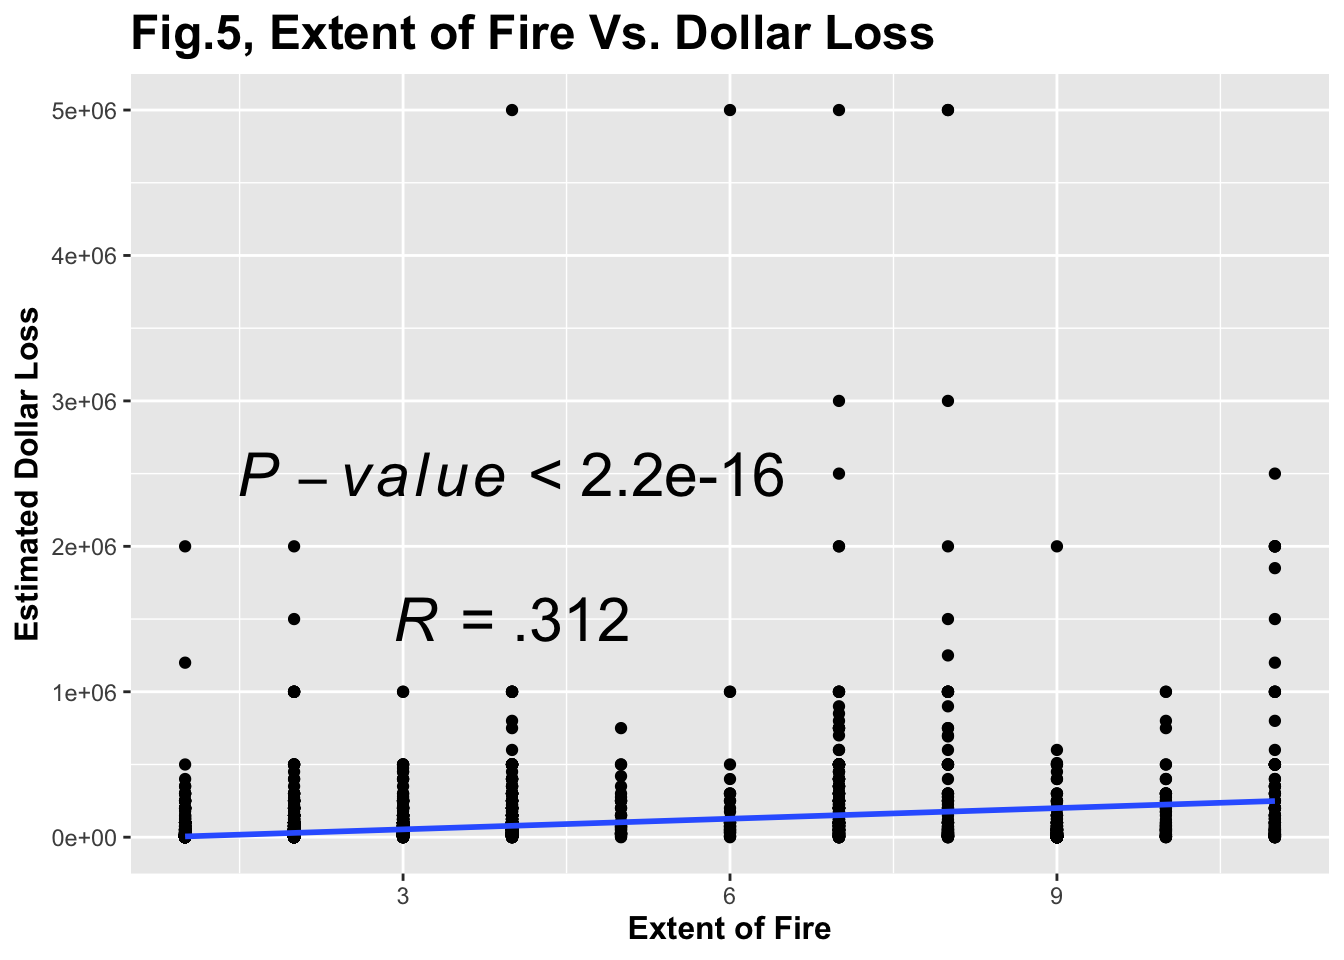
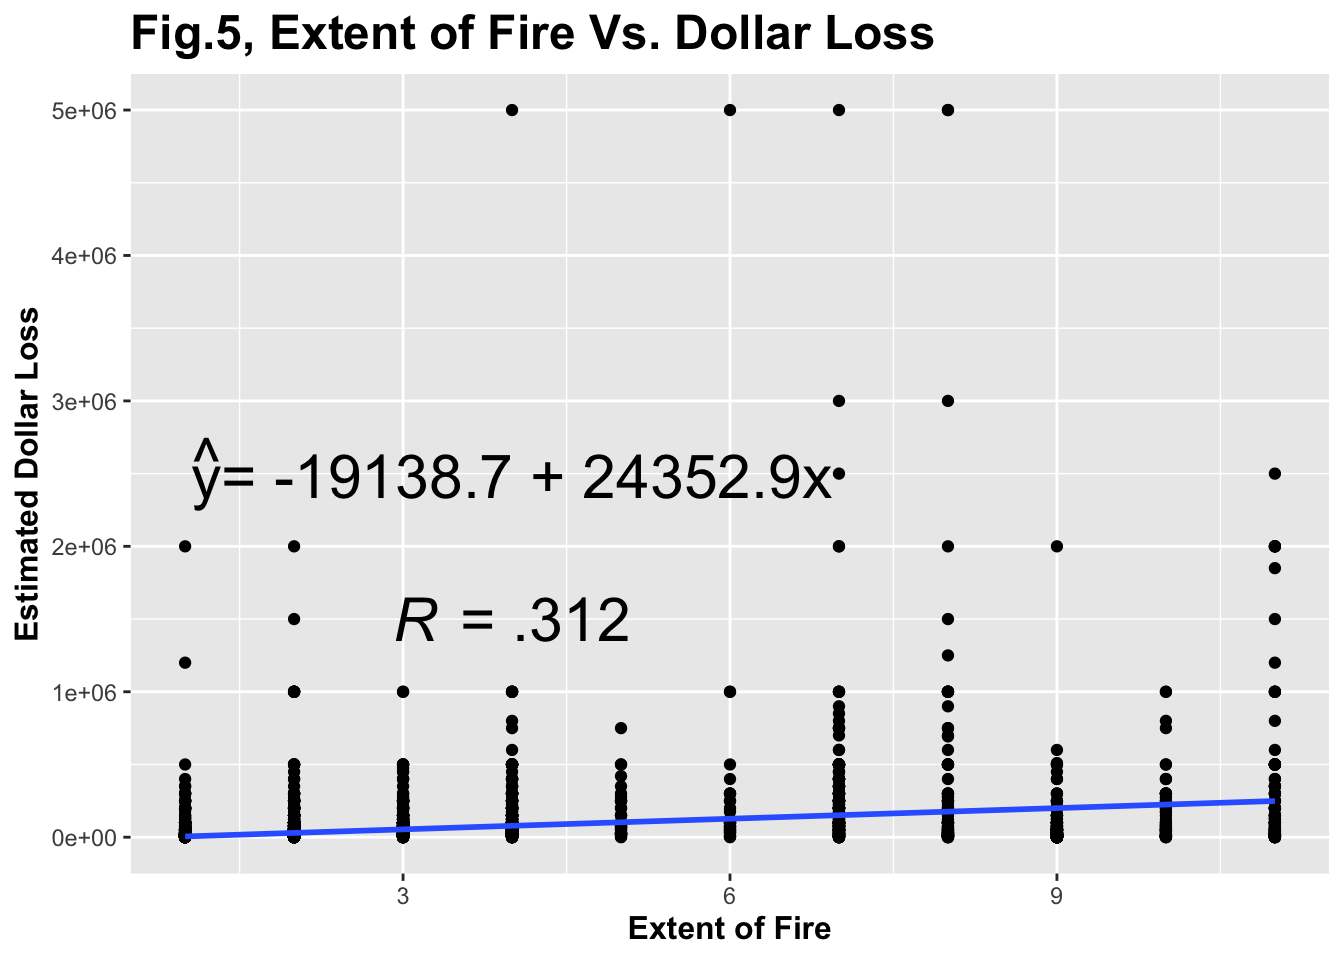
A1C14

Changed region(s): [[0.125, 0.4688, 0.625, 0.5312]]

diff --git a/public/2020/09/17/positive-correlation-between-extent-of-fire-incident-estimated-loss-and-number-of-responding-firefighters/index.html b/public/2020/09/17/positive-correlation-between-extent-of-fire-incident-estimated-loss-and-number-of-responding-firefighters/index.html
@@ -22,11 +22,6 @@
 
 
 
-
-<link href='//cdnjs.cloudflare.com/ajax/libs/highlight.js/9.12.0/styles/github.min.css' rel='stylesheet' type='text/css' />
-
-
-
 <link rel="stylesheet" href="/css/fonts.css" media="all">
 <link rel="stylesheet" href="/css/main.css" media="all">
 
@@ -103,43 +98,13 @@
 <div id="are-they-correlated" class="section level1">
 <h1>Are they Correlated?</h1>
 <p>To assess correlation, the use of simple linear regression model and hypothesis testing on correlation coefficients was done for each set of graphs. The regression model shows a direct graphical implication of the relationship and provides the correlation coefficient. The hypothesis testing is just an extra safe to show that correlation is not zero, so we used a null hypothesis of correlation coefficient equal to zero and the alternative being non-zero.</p>
-<pre><code>## 
-##  Pearson&#39;s product-moment correlation
-## 
-## data:  Loss_NumUnit_low$Extent_Of_Fire and Loss_NumUnit_low$Number_of_responding_personnel
-## t = 50.372, df = 11115, p-value &lt; 2.2e-16
-## alternative hypothesis: true correlation is not equal to 0
-## 95 percent confidence interval:
-##  0.4158489 0.4461197
-## sample estimates:
-##       cor 
-## 0.4311056</code></pre>
-<pre><code>## 
-##  Pearson&#39;s product-moment correlation
-## 
-## data:  Loss_NumUnit_low$Extent_Of_Fire and Loss_NumUnit_low$Estimated_Dollar_Loss
-## t = 34.627, df = 11115, p-value &lt; 2.2e-16
-## alternative hypothesis: true correlation is not equal to 0
-## 95 percent confidence interval:
-##  0.2951687 0.3287283
-## sample estimates:
-##       cor 
-## 0.3120458</code></pre>
 <p><img src="/post/2020-09-20-Ps1-Yi_Su_files/figure-html/unnamed-chunk-4-1.png" width="50%" /><img src="/post/2020-09-20-Ps1-Yi_Su_files/figure-html/unnamed-chunk-4-2.png" width="50%" /></p>
-<p>First, &quot;Extent_of_fire&quot; appears to have a positive relationship with both &quot;Number_of_responding_personnel&quot; and &quot;Estimated_Dollar_Loss&quot;. The blue line in the graph is a simple linear regression line showing a positive correlation between the two variables for all three graphs, and the p-values both being so small is just an indication that we can be sure there exist some correlation between the variables.The R value (correlation coefficient) indicates the strength of relationship. Notice that the correlation coefficitn of 0.431 and 0.312 are considered as fairly weak, this is due to the fact that, there are always more elements other than extent of the incident which influences number of responding firefighters and estimated loss. For example, the number of firefighters in a certain responding area is limited in the given time, and maybe the incident happened in an area or building with less valuable item in dollars.</p>
-<pre><code>## 
-##  Pearson&#39;s product-moment correlation
-## 
-## data:  Loss_NumUnit_low$Estimated_Dollar_Loss and Loss_NumUnit_low$Number_of_responding_personnel
-## t = 69.309, df = 11115, p-value &lt; 2.2e-16
-## alternative hypothesis: true correlation is not equal to 0
-## 95 percent confidence interval:
-##  0.5362211 0.5621831
-## sample estimates:
-##       cor 
-## 0.5493347</code></pre>
+<p>First, &quot;Extent_of_fire&quot; appears to have a positive relationship with both &quot;Number_of_responding_personnel&quot; and &quot;Estimated_Dollar_Loss&quot;. The blue line in the graph is a simple linear regression line showing a positive correlation between the two variables for all three graphs. Specifically, the SLR model for impact of extent of fire on number of responding personnel is: <span class="math display">\[\hat{y}= 20.1 + 4.45x \]</span>, meaning the expected estimiate loss is 20.1 when extent of fire is 0, and expected number of responding personnel increases for 4.45 when extent of fire raises by level of 1. The SLR model for impact of extent of fire on estimated loss is: <span class="math display">\[\hat{y}= -19138.7 + 24352.9x \]</span>, and the interpretation of parameters are similar to the last model. Notably, the negative intercept is just an expected loss when extent is 0 and does not mean there's a &quot;negative loss&quot; when no fire around.</p>
+<p>The R value (correlation coefficient) indicates the strength of relationship. Notice that the correlation coefficient of 0.431 and 0.312 are considered as fairly weak, this is due to the existence of high residual value on the top half of both graphs. Notice the source of this is the large difference in scale of the explanatory and response variables. Extent of fire only takes on 1 to 10, but number of responding personnel reaches almost 500 at maximum, and estimated loss reaches 5 million at maximum. This is also why the correlation coefficient in Fig. 2 is lower than Fig. 1.</p>
+<p>On the other hand, there are always more elements other than extent of the incident which influences number of responding firefighters and estimated loss. For example, the number of firefighters in a certain responding area is limited in the given time, and maybe the incident happened in an area or building with less valuable item in dollars.</p>
 <p><img src="/post/2020-09-20-Ps1-Yi_Su_files/figure-html/unnamed-chunk-5-1.png" width="80%" /></p>
-<p>Next, Looking at the impact of &quot;Number_of_Responding_Personnel&quot; on &quot;Estimated_Dollar_Loss&quot;. The figure above shows that most incidents are clustered at the left-bottom corner, which follows our observation on the individual distribution of there two. Again, the small p-value shows the existence of some kind of correlation. A R value of 0. 549 appears that the correlation between number of firefighters involved and estimated dollar loss is stronger than the previous two. However, this does not mean there exist a causality of &quot;more firefighters result in more loss&quot; or the opposite, the more important rule is the extent of the incident. &quot;Extent_of_Fire&quot; acts like a gear between them, linking higher estimated loss with more firefighter involved in average.</p>
+<p>Next, Looking at Fig. 6 for the impact of &quot;Number_of_Responding_Personnel&quot; on &quot;Estimated_Dollar_Loss&quot;. The figure above shows that most incidents are clustered at the left-bottom corner, which follows our observation on the individual distribution of there two. The SLR model fitted in Fig.6 is: <span class="math display">\[\hat{y}= 27.43 + (7.26*10^{-5})x \]</span>. Again, the intercept of 27.43 is the expected number of responding personnel when there's no estimated loss, and expected number of responding personnel increases for 7.26e-05 whenever estimated loss increase for 1. The slope of 7.26e-05 is looking small on its own due to the difference in scale of the variables, estimated loss use millions on the axis while number of personnel use hundreds.</p>
+<p>A R value of 0. 549 appears that the correlation between number of firefighters involved and estimated dollar loss is stronger than the previous two. However, this does not mean there exist a causality of &quot;more firefighters result in more loss&quot; or the opposite, the more important rule is the extent of the incident. &quot;Extent_of_Fire&quot; acts like a gear between them, linking higher estimated loss with more firefighter involved on average.</p>
 </div>
 <div id="constraints-of-the-data" class="section level1">
 <h1>Constraints of the data</h1>
@@ -184,18 +149,6 @@
 
     </div>
     
-
-
-
-<script src="//cdnjs.cloudflare.com/ajax/libs/highlight.js/9.12.0/highlight.min.js"></script>
-
-
-
-<script src="//cdnjs.cloudflare.com/ajax/libs/highlight.js/9.12.0/languages/r.min.js"></script>
-<script src="//cdnjs.cloudflare.com/ajax/libs/highlight.js/9.12.0/languages/yaml.min.js"></script>
-<script>hljs.configure({languages: []}); hljs.initHighlightingOnLoad();</script>
-
-
 
     
 <script src="/js/math-code.js"></script>

diff --git a/content/post/2020-09-20-Ps1-Yi_Su.html b/content/post/2020-09-20-Ps1-Yi_Su.html
@@ -38,43 +38,13 @@ output:
 <div id="are-they-correlated" class="section level1">
 <h1>Are they Correlated?</h1>
 <p>To assess correlation, the use of simple linear regression model and hypothesis testing on correlation coefficients was done for each set of graphs. The regression model shows a direct graphical implication of the relationship and provides the correlation coefficient. The hypothesis testing is just an extra safe to show that correlation is not zero, so we used a null hypothesis of correlation coefficient equal to zero and the alternative being non-zero.</p>
-<pre><code>## 
-##  Pearson&#39;s product-moment correlation
-## 
-## data:  Loss_NumUnit_low$Extent_Of_Fire and Loss_NumUnit_low$Number_of_responding_personnel
-## t = 50.372, df = 11115, p-value &lt; 2.2e-16
-## alternative hypothesis: true correlation is not equal to 0
-## 95 percent confidence interval:
-##  0.4158489 0.4461197
-## sample estimates:
-##       cor 
-## 0.4311056</code></pre>
-<pre><code>## 
-##  Pearson&#39;s product-moment correlation
-## 
-## data:  Loss_NumUnit_low$Extent_Of_Fire and Loss_NumUnit_low$Estimated_Dollar_Loss
-## t = 34.627, df = 11115, p-value &lt; 2.2e-16
-## alternative hypothesis: true correlation is not equal to 0
-## 95 percent confidence interval:
-##  0.2951687 0.3287283
-## sample estimates:
-##       cor 
-## 0.3120458</code></pre>
 <p><img src="/post/2020-09-20-Ps1-Yi_Su_files/figure-html/unnamed-chunk-4-1.png" width="50%" /><img src="/post/2020-09-20-Ps1-Yi_Su_files/figure-html/unnamed-chunk-4-2.png" width="50%" /></p>
-<p>First, &quot;Extent_of_fire&quot; appears to have a positive relationship with both &quot;Number_of_responding_personnel&quot; and &quot;Estimated_Dollar_Loss&quot;. The blue line in the graph is a simple linear regression line showing a positive correlation between the two variables for all three graphs, and the p-values both being so small is just an indication that we can be sure there exist some correlation between the variables.The R value (correlation coefficient) indicates the strength of relationship. Notice that the correlation coefficitn of 0.431 and 0.312 are considered as fairly weak, this is due to the fact that, there are always more elements other than extent of the incident which influences number of responding firefighters and estimated loss. For example, the number of firefighters in a certain responding area is limited in the given time, and maybe the incident happened in an area or building with less valuable item in dollars.</p>
-<pre><code>## 
-##  Pearson&#39;s product-moment correlation
-## 
-## data:  Loss_NumUnit_low$Estimated_Dollar_Loss and Loss_NumUnit_low$Number_of_responding_personnel
-## t = 69.309, df = 11115, p-value &lt; 2.2e-16
-## alternative hypothesis: true correlation is not equal to 0
-## 95 percent confidence interval:
-##  0.5362211 0.5621831
-## sample estimates:
-##       cor 
-## 0.5493347</code></pre>
+<p>First, &quot;Extent_of_fire&quot; appears to have a positive relationship with both &quot;Number_of_responding_personnel&quot; and &quot;Estimated_Dollar_Loss&quot;. The blue line in the graph is a simple linear regression line showing a positive correlation between the two variables for all three graphs. Specifically, the SLR model for impact of extent of fire on number of responding personnel is: <span class="math display">\[\hat{y}= 20.1 + 4.45x \]</span>, meaning the expected estimiate loss is 20.1 when extent of fire is 0, and expected number of responding personnel increases for 4.45 when extent of fire raises by level of 1. The SLR model for impact of extent of fire on estimated loss is: <span class="math display">\[\hat{y}= -19138.7 + 24352.9x \]</span>, and the interpretation of parameters are similar to the last model. Notably, the negative intercept is just an expected loss when extent is 0 and does not mean there's a &quot;negative loss&quot; when no fire around.</p>
+<p>The R value (correlation coefficient) indicates the strength of relationship. Notice that the correlation coefficient of 0.431 and 0.312 are considered as fairly weak, this is due to the existence of high residual value on the top half of both graphs. Notice the source of this is the large difference in scale of the explanatory and response variables. Extent of fire only takes on 1 to 10, but number of responding personnel reaches almost 500 at maximum, and estimated loss reaches 5 million at maximum. This is also why the correlation coefficient in Fig. 2 is lower than Fig. 1.</p>
+<p>On the other hand, there are always more elements other than extent of the incident which influences number of responding firefighters and estimated loss. For example, the number of firefighters in a certain responding area is limited in the given time, and maybe the incident happened in an area or building with less valuable item in dollars.</p>
 <p><img src="/post/2020-09-20-Ps1-Yi_Su_files/figure-html/unnamed-chunk-5-1.png" width="80%" /></p>
-<p>Next, Looking at the impact of &quot;Number_of_Responding_Personnel&quot; on &quot;Estimated_Dollar_Loss&quot;. The figure above shows that most incidents are clustered at the left-bottom corner, which follows our observation on the individual distribution of there two. Again, the small p-value shows the existence of some kind of correlation. A R value of 0. 549 appears that the correlation between number of firefighters involved and estimated dollar loss is stronger than the previous two. However, this does not mean there exist a causality of &quot;more firefighters result in more loss&quot; or the opposite, the more important rule is the extent of the incident. &quot;Extent_of_Fire&quot; acts like a gear between them, linking higher estimated loss with more firefighter involved in average.</p>
+<p>Next, Looking at Fig. 6 for the impact of &quot;Number_of_Responding_Personnel&quot; on &quot;Estimated_Dollar_Loss&quot;. The figure above shows that most incidents are clustered at the left-bottom corner, which follows our observation on the individual distribution of there two. The SLR model fitted in Fig.6 is: <span class="math display">\[\hat{y}= 27.43 + (7.26*10^{-5})x \]</span>. Again, the intercept of 27.43 is the expected number of responding personnel when there's no estimated loss, and expected number of responding personnel increases for 7.26e-05 whenever estimated loss increase for 1. The slope of 7.26e-05 is looking small on its own due to the difference in scale of the variables, estimated loss use millions on the axis while number of personnel use hundreds.</p>
+<p>A R value of 0. 549 appears that the correlation between number of firefighters involved and estimated dollar loss is stronger than the previous two. However, this does not mean there exist a causality of &quot;more firefighters result in more loss&quot; or the opposite, the more important rule is the extent of the incident. &quot;Extent_of_Fire&quot; acts like a gear between them, linking higher estimated loss with more firefighter involved on average.</p>
 </div>
 <div id="constraints-of-the-data" class="section level1">
 <h1>Constraints of the data</h1>
